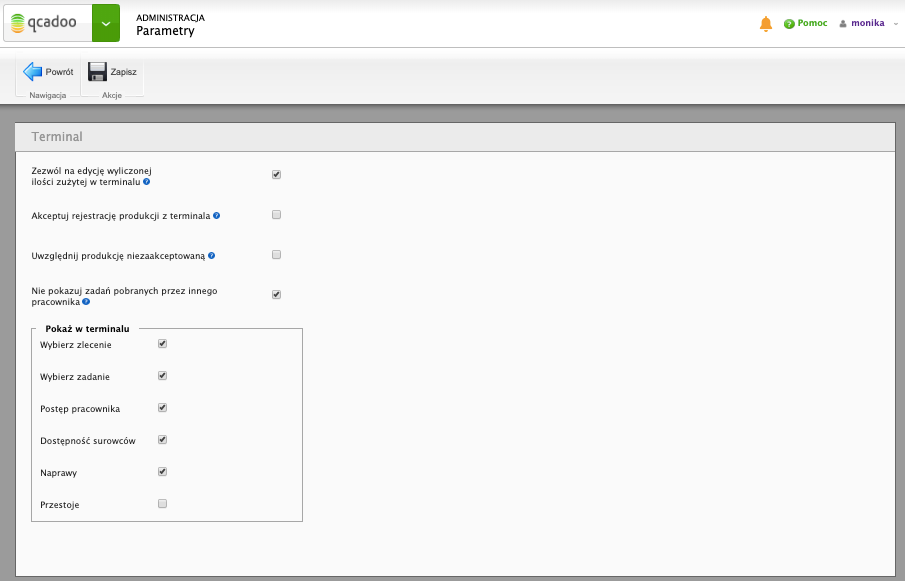
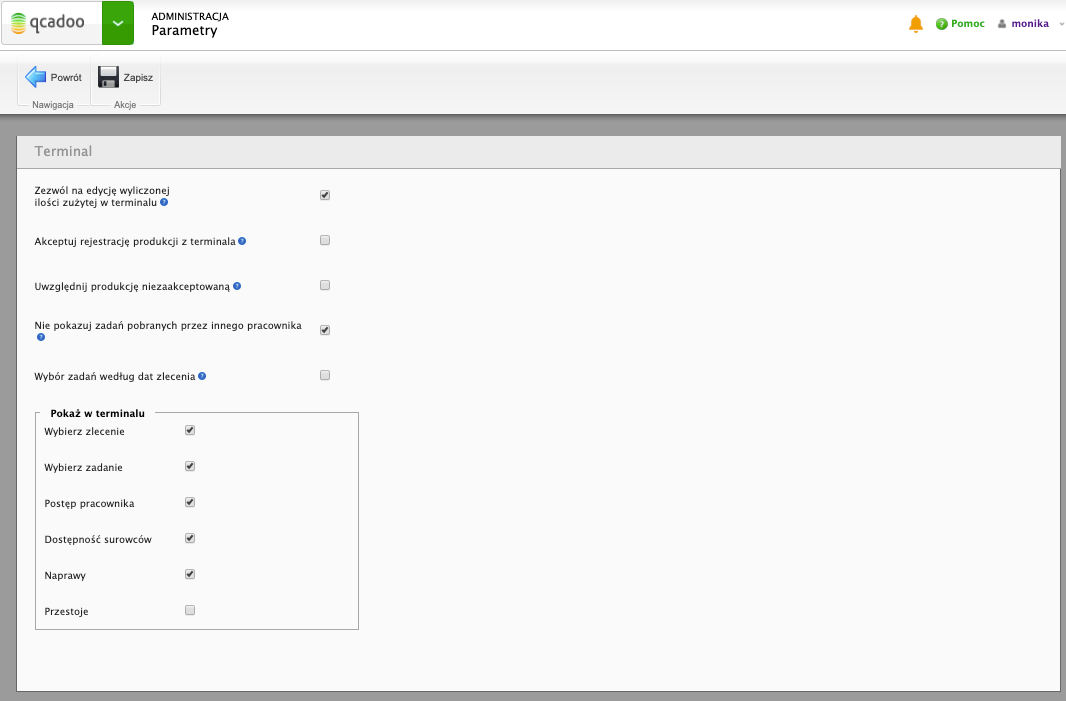
Gantt of operational tasks

diff --git a/pages/planowanie/gantt-zadan-operacyjnych.md b/pages/planowanie/gantt-zadan-operacyjnych.md
@@ -1,0 +1,77 @@
+---
+title: "Gantt zadań operacyjnych"
+permalink: gantt-zadan-operacyjnych.html
+---
+
+Gantt zadań operacyjnych jest kolejną, po [planowaniu na liniach](planowanie-na-liniach), graficzną prezentacją planów produkcyjnych. Planowanie na liniach pokazuje zlecenia produkcyjne - czyli jest do wykorzystania w momencie, gdy planujesz pracę z dokładnością do zleceń (i zleceń na komponenty). Gantt zadań operacyjnych pokazuje operacje (a tak naprawdę - zadania operacyjne), czyli użyjesz go wtedy, gdy planujesz każdą wykonywaną na produkcji czynność. Więcej o podejściach do planowania w qcadoo poczytasz [tutaj](/plan-na-stacje-robocza-i-pracownika).
+
+Aby skorzystać z Gantta zadań operacyjnych wejdź w **Planowaie > Gantt zadań operacyjnych**.
+
+{% include lightbox.html file="planowanieGanttZadanOperacyjnych.png" alt="Gantt zadań operacyjnych" caption="Gantt zadań operacyjnych" %}
+
+Na wykresie Gantta widać wszystkie te [zadania operacyjne](/planowanie-operacyjne), które nie są odrzucone, które są przypisane do stacji roboczej i których data zakończenia nie jest wcześniejsza niż miesiąc wstecz. Te bez przypisanej stacji - trafią do bufora (tabeli niezaplanowanych zadań, widocznej z prawej strony). Zadania zaplanowane są w czasie (oś OX) i na zdefiniowane w qcadoo stacje robocze (oś OY). W obszarze kalendarza wyznaczone są zmiany i zaznaczone okresy niepracujące - podstawą jest [kalendarz](zmiany) przypisany do [linii](/linie-produkcyjne), do której należy dana stacja oraz [wyjątki dla linii](/wyjatki-dla-linii). Z podstawowych informacji o wykresie to chyba wszystko. Czas na opis, jak go używać.
+
+Plan widoczny na wykresie Gantta możesz przeglądać w różnych perspektywach czasowych - klikając w nagłówek kalendarza (widoczne dni, godziny itp.) lewym przyciskiem myszy przybliżasz widok, aż do minut. Klikając prawym przyciskiem myszy - oddalasz, aż do miesięcy. 
+
+Dane zapisywane są od razu po wprowadzonych zmianach. Jeśli przesuniesz kafelek - efekt od razu będzie widoczny w [liście planowania operacyjnego](/planowanie-operacyjne). Jeśli jednak inny użytkownik doda nowe zadania, czy je zmieni, zobaczysz aktualny stan dopiero po odświeżeniu widoku. Możesz albo ponownie wczytać kalendarz, albo kliknąć przycisk odświeżenia {% include inline_image.html file="przyciskGanttOdswiez.png" alt="Odśwież" %} pod wykresem.
+
+**Edycja planu** odbywa się poprzez przenoszenie kafelek w czasie (w lewo i w prawo, wzdłuż wiersza stacji) oraz między stacjami (w górę i w dół). Jeśli chcesz dorzucić do planu, coś co znajduje się w buforze - złap myszką wiersz tabeli i przeciągnij w odpowiednie miejsce kalendarza. Czyli standardowy, znany Ci już z planowania na linię, drag&drop. 
+
+{% include callout.html content="Jeśli zadanie najdzie na okres niepracujący, z automatu zostanie rozciągnięte, tak by mogło się zakończyć w czasie, gdy wykonujesz pracę" type="info" %}
+
+Dodatkowo zmiany możesz przeprowadzić z okna edycyjnego. Kliknij w kafelek prawym przyciskiem myszy i wywołaj edycję.
+
+{% include lightbox.html file="planowanieGanttZadanOperacyjnychEdycja.png" alt="Okno edycyjne" caption="Okno edycyjne" %}
+
+Ten sposób modyfikacji, poza zmianą dat i stacji roboczej, pozwala na przypisanie do zadania [pracownika](/pracownicy).
+
+W menu kontekstowym (wywołanym kliknięciem w kafelek prawym przyciskiem myszy) dostępna jest dodatkowo opcja **Przenieś do niezaplanowanych** - dzięki niej usuniesz zadanie z planu i wrzucisz do bufora.
+
+**Szczegółowe informacje** o zadaniu zaprezentowane są w tooltipie (dymku, chmurce), który pojawia się po najechaniu myszką na kafelek.
+
+{% include lightbox.html file="planowanieGanttZadanOperacyjnychTooltip.png" alt="Informacje szczegółowe" caption="Informacje szczegółowe" %}
+
+Ponadto - opis umieszczony na kafelku, powinien pozwolić na ustalenie, już przy pierwszym rzucie oka, czym dane zadanie jest.
+
+Zwróciłeś zapewne uwagę, że kafelki mają różne **kolory**. Kolory świadczą o statusie i typie zadania. Dla zadań powiązanych ze zleceniem mamy kolory:
+- żółty {% include inline_image.html file="kafelZolty.png" alt="zółty" %} to status Oczekujące
+- jasno niebieski {% include inline_image.html file="kafelAqua.png" alt="aqua" %} to status Rozpoczęte
+- jasny szary {% include inline_image.html file="kafelJasnoSzary.png" alt="jasno szary" %} to status Zakończone
+
+Dla zadań o typie "inne zadanie" zastosowane zostały kolory:
+- oliwkowy {% include inline_image.html file="kafelOliwkowy.png" alt="zółty" %} to status Oczekujące
+- granatowy {% include inline_image.html file="kafelNavy.png" alt="navy" %} to status Rozpoczęte
+- ciemno szary {% include inline_image.html file="kafelCiemnoSzary.png" alt="ciemno szary" %} to status Zakończone
+
+Zadania zakończone są ponadto wyłączone z edycji - pionowe kreski na początku i końcu kafelka oznaczają, że nie może zmienić swojego położenia.
+
+Jakie jeszcze kolory możesz na wykresie Gantta dostrzec:
+
+1. zadania mogą być realizowane w tym samym czasie. Kafelki ułożone zostają wówczas jeden pod drugim, a wiersz stacji jest odpowiednio poszerzany. Zadania takie mają kafelki o jaśniejszym odcieniu
+
+2. zaznaczenie zadania (przed dwukrotne kliknięcie) powoduje podświetlenie go na zielono. Dodatkowo zaznaczają się wszystkie powiązane zadania (pochodzące z tego samego zlecenia), a między nimi rysowane są linki:
+
+{% include lightbox.html file="planowanieGanttZadanLinki.png" alt="Powiązane zadania operacyjne" caption="Powiązane zadania operacyjne" %}
+
+{:start="3"}
+
+3. kolor zadania może nieść informacje o procencie wykonania. Aby tak się stało zaznacz w [parametrach Gantta](parametry-gantta) **Pokazuj postęp**. Pamiętasz procent wykonania w liście zadań operacyjnych? Jeśli nie - to zerknij [tutaj](/planowanie-operacyjne.html#śledzenie-postępu-produkcji). W zależności od tego w jakim procencie zadanie jest wykonane, tak będzie się napełniać kolorem dany kafelek. Wykonanie 100% spowoduje pokolorowanie zadania na ciemno zielono.
+
+{% include lightbox.html file="planowanieGanttZadanPostep.png" alt="Postęp zadania operacyjnego" caption="Postęp zadania operacyjnego" %}
+
+Zadania widoczne w planie możesz przeszukiwać używając filtra umieszczonego nad wykresem. Wpisz tekst, po którym chcesz przeszukać dane i kliknij jeden z dwóch dostępnych przycisków:
+- **Filtruj** {% include inline_image.html file="przyciskGanttFiltruj.png" alt="filtruj" %}
+- **Zaznacz** {% include inline_image.html file="przyciskGanttZaznacz.png" alt="zaznacz" %}
+
+**Filtrowanie** odnajdzie i zaznaczy kolorem zielonym zadania i ograniczy wiersze tylko do tych, na których dane zadania się znajdują:
+
+{% include lightbox.html file="planowanieGanttZadanFiltruj.png" alt="Filtrowanie zadań operacyjnych" caption="Filtrowanie zadań operacyjnych" %}
+
+**Zaznaczanie** również odnajdzie i wyróżni kolorem zielonym zadania, ale nadal będziesz widzieć wszystkie stacje robocze:
+
+{% include lightbox.html file="planowanieGanttZadanZaznacz.png" alt="Zaznaczanie zadań operacyjnych" caption="Zaznaczanie zadań operacyjnych" %}
+
+Aby odznaczyć znalezione zadania - wystarczy w nie dwukrotnie kliknąć.
+
+
+

diff --git a/pages/rejestracja-produkcji/terminal.md b/pages/rejestracja-produkcji/terminal.md
@@ -20,7 +20,10 @@ Zanim rozpoczniesz pracę w terminalu musisz kilka rzeczy skonfigurować:
 
 - _zużycie surowców na podstawie norm_ - jeśli zaznaczysz parametr, to ilość zużyta produktów wejściowych zostanie z automatu wyliczona po podaniu ilości wyprodukowanej (na podstawie określonych w technologii norm). W terminalu będzie można od razu przejść z pracownika do pola z ilością wyprodukowaną.
 - _zezwól na edycję wyliczonej ilości zużytej w terminalu_ - parametr powiązany z powyższym. Zaznacz gdy chcesz pozwolić pracownikowi na edycję wyliczonej zużytej ilości. Jeśli parametr będzie niezaznaczony, to pola w terminalu będą wyszarzone, ale w utworzonym rekordzie rejestracji będziesz mógł wprowadzić zmiany
-- _akceptuj rejestrację produkcji w terminalu_ - zaznaczenie parametru sprawi, że rekord rejestracji utworzony z terminala będzie od razu akceptowany. Czyli od razu zostaną wywołane stutki magazynowe. 
+- _akceptuj rejestrację produkcji w terminalu_ - zaznaczenie parametru sprawi, że rekord rejestracji utworzony z terminala będzie od razu akceptowany. Czyli od razu zostaną wywołane stutki magazynowe.
+- _uwzględnij produkcję niezaakceptowaną_ - zaznacz parametr, jeśli chcesz, aby ilość wyprodukowana prezentowana w terminalu, wyliczana była z istniejących meldunków szkicowych i zaakceptowanych. Jeśli parametr nie będzia zaznaczony - pobierzemy dane tylko z meldunków zaakceptowanych
+- _nie pokazuj zadań pobranych przez innego pracownika_ - zaznacz parametr, jeśli nad danym zadaniem pracuje tylko 1 pracownik. Po pobraniu zadania w terminalu inni pracownicy nie będą widzieć go na liście
+- _wybór zadań wg dat zlecenia_ - jeśli parametr będzie zaznaczony, to zadanie operacyjne będzie widoczne w oknie wyboru zadań w terminalu, tak długo, jak trwa zlecenie. Jeśli nie zaznaczysz parametru - daty zadania będą tu wyznacznikiem: jeśli upłynie data zakończenia zadania - nie będzie się go dało zaraportować w terminalu
 
 W parametrach terminala zaznacz też jakie przyciski i obszary (opisane niżej) chcesz wykorzystywać.
 
@@ -171,6 +174,15 @@ Dodatkowym ułatwieniem dla pracowników jest możliwość wpisywania kolejnych 
 {% include lightbox.html file="terminalProduktyWyjscioweMenuKontekstowe.png" alt="Atrybuty produktu wyjściowego" caption="Atrybuty produktu wyjściowego" class="float-right"  %}
 
 Podobnie jak w produktach zużywanych w procesie, tak i tutaj, pracownik ma możliwość zaznajomienia się z [atrybutami](/atrybuty) charakteryzującymi wytwarzany produkt. Wystarczy, żę kliknie w menu kontekstowe i odczyta atrybuty umieszczone w dodatkowych informacjach. Dane te niejednokrotnie warunkują ostateczny wygląd produktu, dlatego tak ważne jest, aby każdy miał w nie wgląd.
+
+---
+
+{% include lightbox.html file="terminalProduktyWyjscioweAtrybutyZasobu.png" alt="Atrybuty zasobu wytworzonego" caption="Atrybuty zasobu wytworzonego" class="float-right"  %}
+
+#### Atrybuty wyprodukowanego zasobu
+
+Jeśli chcesz, aby wytworzony zasób został oznaczony dodatkowymi [atrybutami](/atrybuty), wejdź w menu kontekstowe danego produktu wyjściowego i wybierz przycisk {% include inline_image.html file="przyciskDodajAtrybutZasobu.png" alt="Przycisk Dodaj atrybut zasobu" %} **Dodaj atrybut zasobu**. W uruchomionym oknie opisz to co zostało wyprodukowane, korzystając z listy dostępnych atrybutów. Wartości atrybutów muszą spełniać nadane w definicji warunki - przypilnujemy, czy podajesz liczbę, wtedy gdy musisz, albo podamy listę dostępnych wartości, wtedy, gdy atrybut jest wyliczeniowy. Dzięki dopisywaniu szczegółowych danych będziesz mógł przeszukać magazyn, po specyficznych dla Ciebie wartościach (ustalając np. jakie produkty o danych wymiarach są aktualnie dostępne), a także wrócić do tych informacji po czasie (np. w celu ustalenia, jak wyglądał produkt wytworzony w listopadzie uprzedniego roku, sprzedany firmie X), przeglądając [listę pozycji dokumentów z atrybutami](/pozycje-dokumentow-z-atrybutami).
+
 
 ---
 

diff --git a/pages/administracja/parametry/parametry-gantta.md b/pages/administracja/parametry/parametry-gantta.md
@@ -1,0 +1,10 @@
+---
+title: "Parametry Gantta"
+permalink: parametry-gantta.html
+---
+
+Parametry Gantta dotyczą [Gantta zadań operacyjnych](/gantt-zadan-operacyjnych). Do konfiguracji przejdziesz w następujący sposób: **Administracja > Parametry > Gantt**
+
+{% include lightbox.html file="administracjaParametryGantt.png" alt="Parametry Gantta" caption="Parametry Gantta" %}
+
+1. **Pokazuj postęp** - zaznacz parametr, jeśli chcesz, aby na kafelkach widoczny był procent wykonania zadania. Zadania będą dopełniane kolorem, aż do 100% wykonania. Zadania w pełni wykonane oznaczone będą kolorem ciemno zielonym
